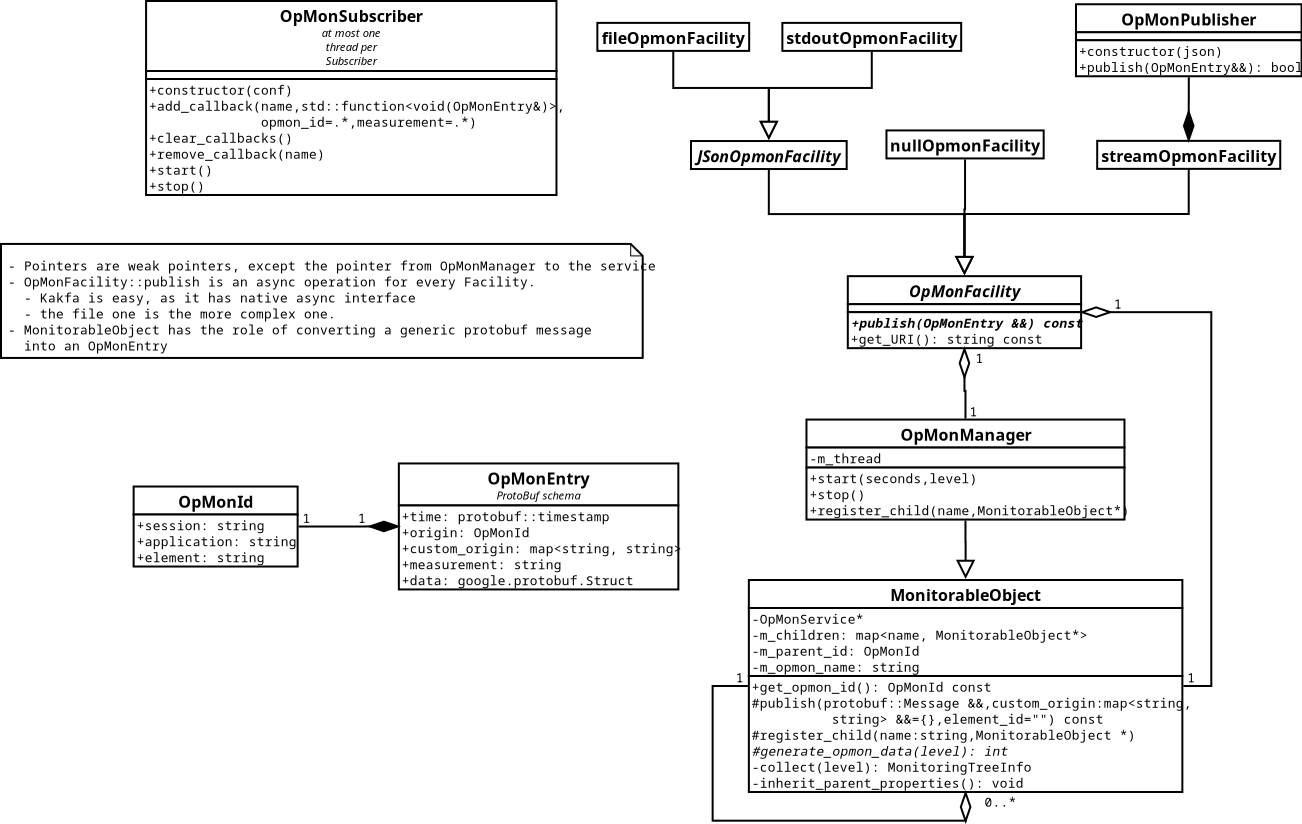
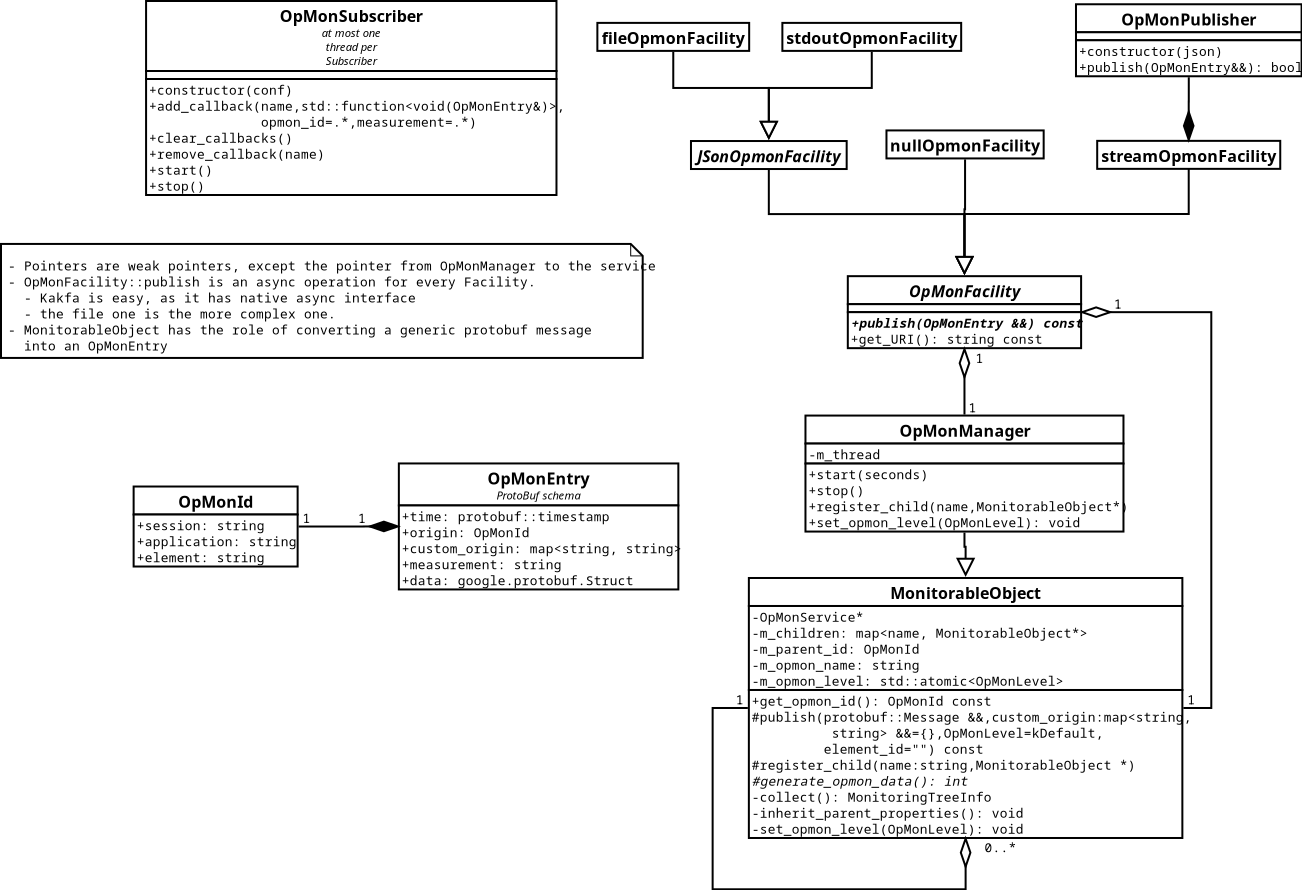
more documentation

diff --git a/docs/Instructions-for-DAQ-module-users.md b/docs/Instructions-for-DAQ-module-users.md
@@ -18,7 +18,7 @@ Typically each module may only need one struct to hold its monitoring informatio
 
 ### Valid types
 As a generic schema language, `ProtoBuf` allows you do use simple types, but also lists, maps, etc.
-Be aware that apart from basic types and nested messages, other quantities are published and are ignored.
+Be aware that apart from basic types and nested messages, other quantities and are ignored.
 ERS messages are generated whenever a structure with unpublishable entries are defined. 
 
 ## Filling and collecting structures
@@ -29,6 +29,7 @@ Two main functions are relevant for publishing:
 ```C++
 void publish( google::protobuf::Message &&,
 		CustomOrigin && co = {},
+    OpMonLevel l = to_level(EntryOpMonLevel::kDefault),
 		const element_id & element = "" ) const noexcept ;
 virtual void generate_opmon_data(opmon_level) {return;}
 ```
@@ -39,11 +40,27 @@ virtual void generate_opmon_data(opmon_level) {return;}
 ### Details and good practices about the optional arguments 
 Optional arguments of the `publish` function, allow you to
 
+* specify a level of priority associated to the metric
 * add additional custom information on the source of the metric, in the form of a `map<string, string>`, where the key is the type of the source, e.g. channel, and the second is the value, e.g. 4345. 
 * extend the `opmon_id` of the caller `MonitorableObject` for the specific metric with more detailed information on the source of this metric. 
 
+The `OpMonLevel` is a priority level designed to control the quantity of metrics generated by a tree is controllable. As a default, all messages are published. The lower the level, the highest the priority. 
+They system can decide to disable entirely the metric publication regardless of the OpMonLevel. 
+The system already provides some values to specify the `OpMonLevel` via an enum:
+```C++
+enum class EntryOpMonLevel : OpMonLevel {
+    kTopPriority     = std::numeric_limits<OpMonLevel>::min(),
+    kAsync           = std::numeric_limits<OpMonLevel>::max()/4,
+    kDefault         = std::numeric_limits<OpMonLevel>::max()/2,
+    kEventDriven     = (std::numeric_limits<OpMonLevel>::max()/4)*3,
+    kLowestPrioriry  = std::numeric_limits<OpMonLevel>::max()-1
+  };
+
+```
+but users are welcome to fill the gaps with whatever number they are happy to associate to their metric.
+
 The usage of a custom origin is designed to provide information that is unrelated to software stack.
-While the software stack might change (e.g, the name of an application or of a module can change because of configuration) some information like a crate number or a channel, are hardware related and they are independent of the software stack that provides this infomration. 
+While the software stack might change (e.g, the name of an application or of a module can change because of configuration) some information like a crate number or a channel, are hardware related and they are independent of the software stack that provides this information. 
 Examples of valid tags to be used in the custom origins are: server name, channel, links, etc. 
 Adding information like application name, or session in the custorm origin is discouraged because it would be redundant. 
 
